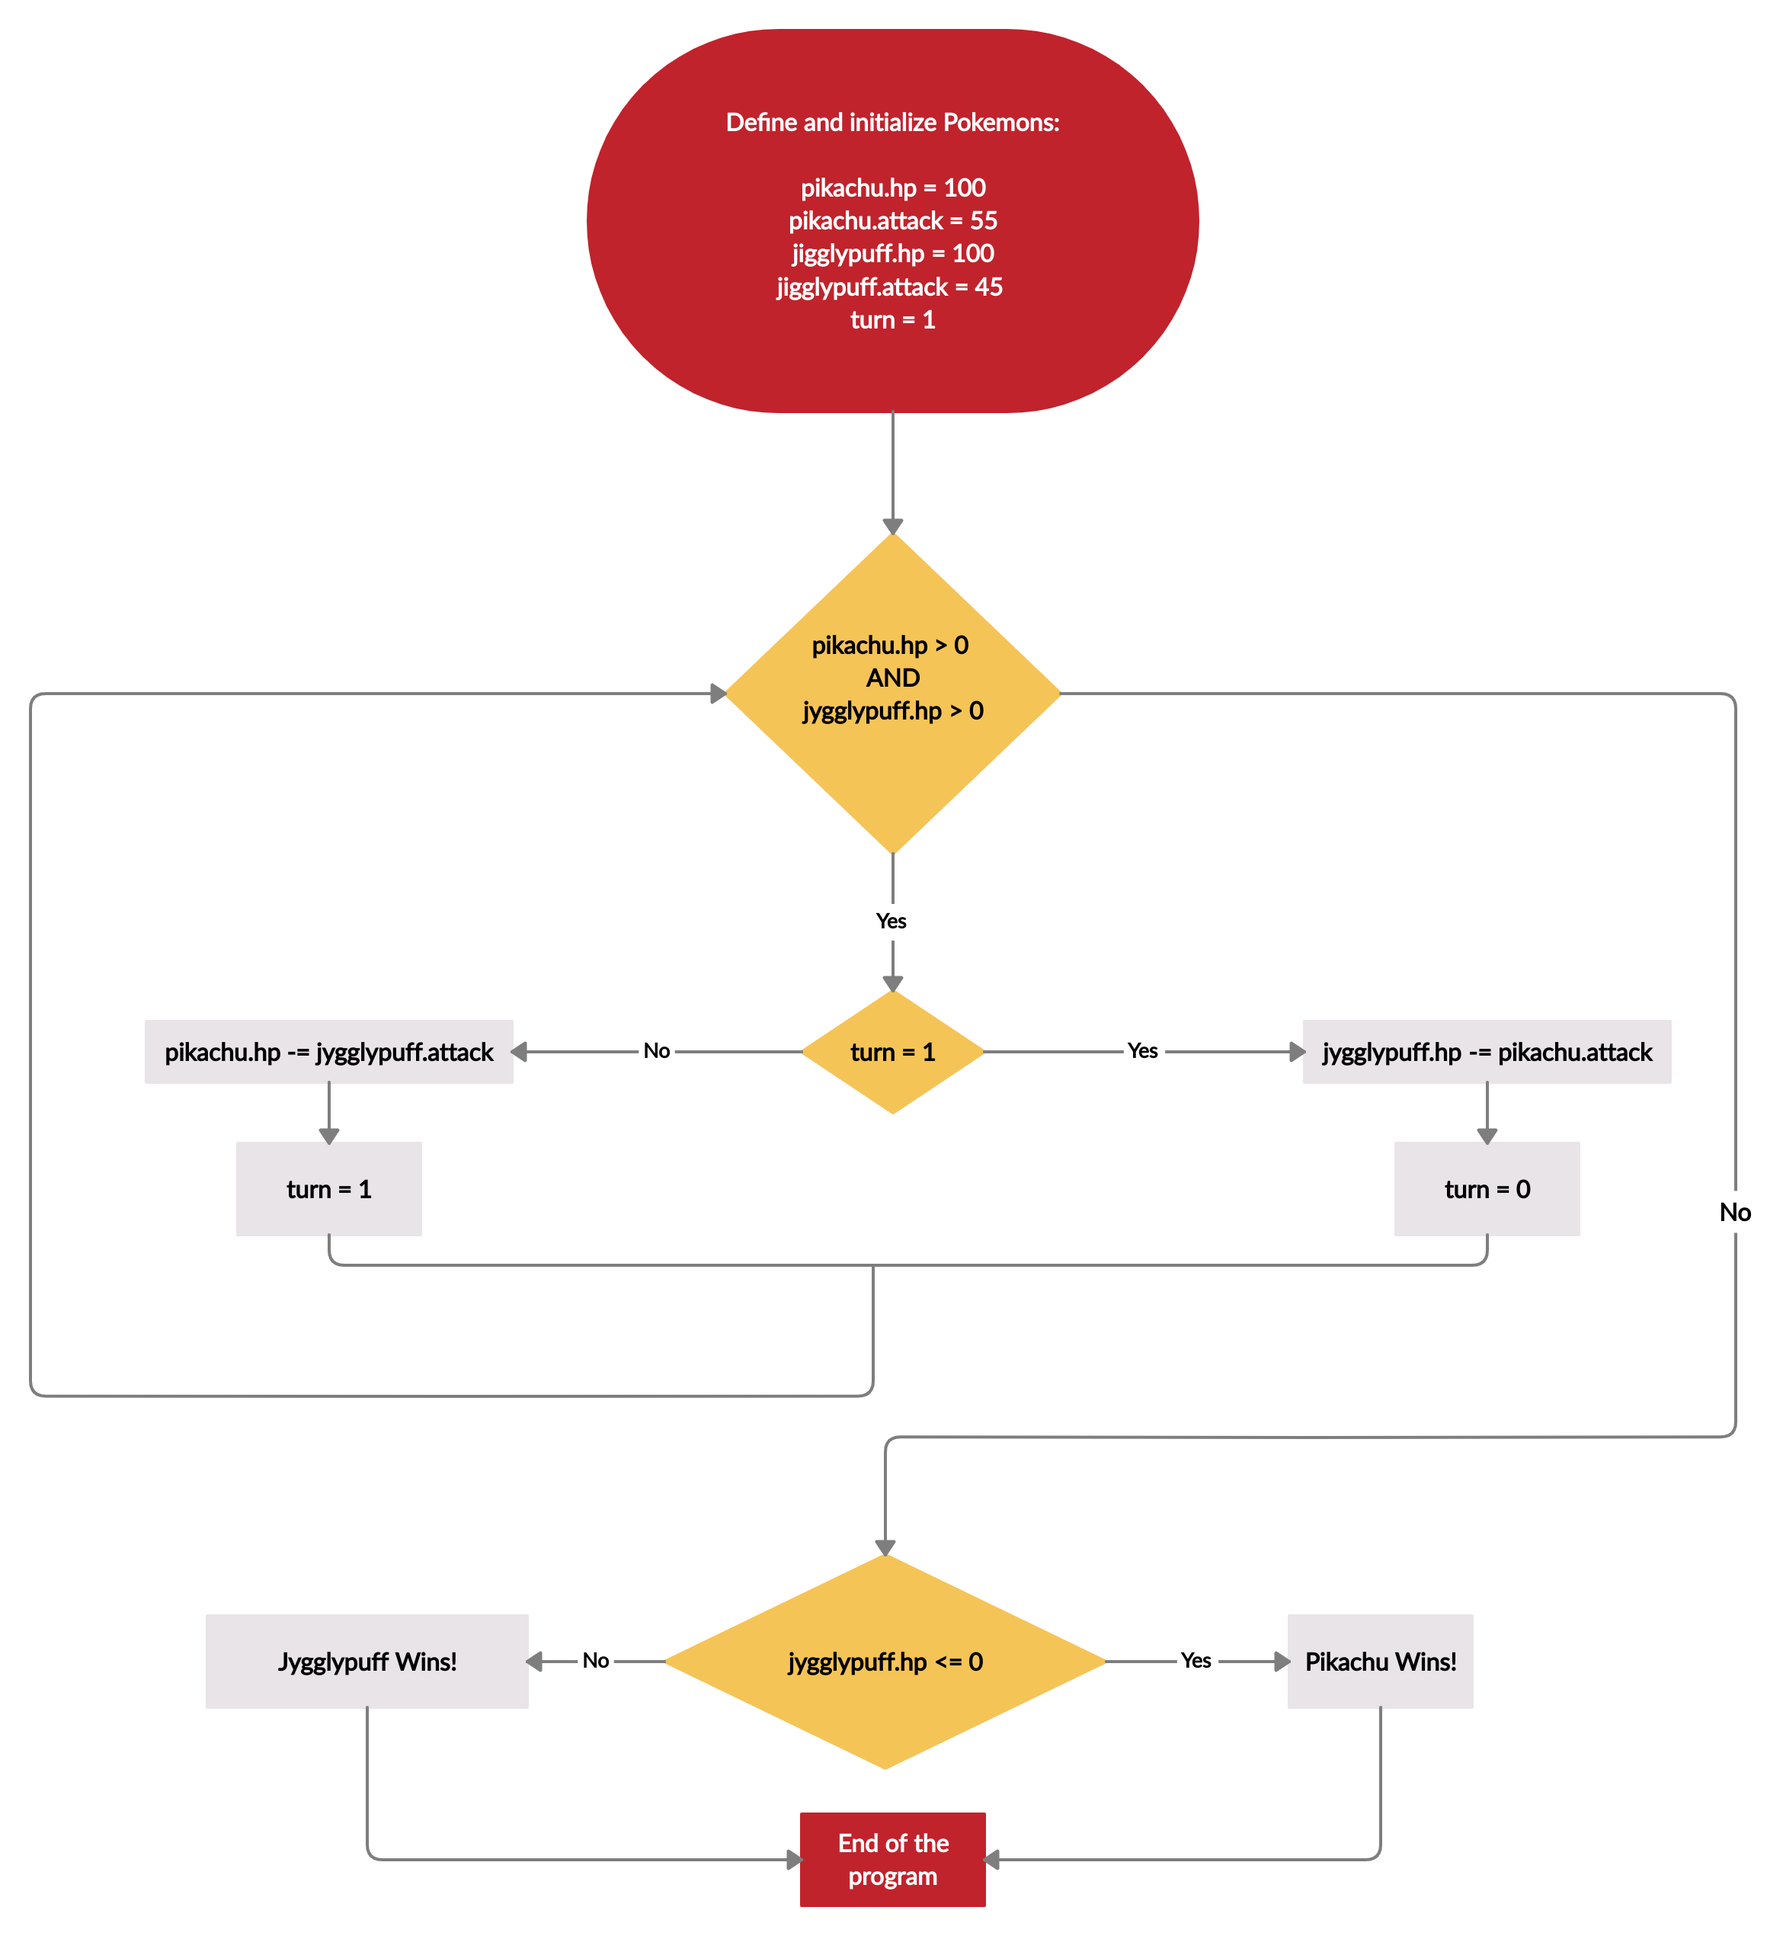
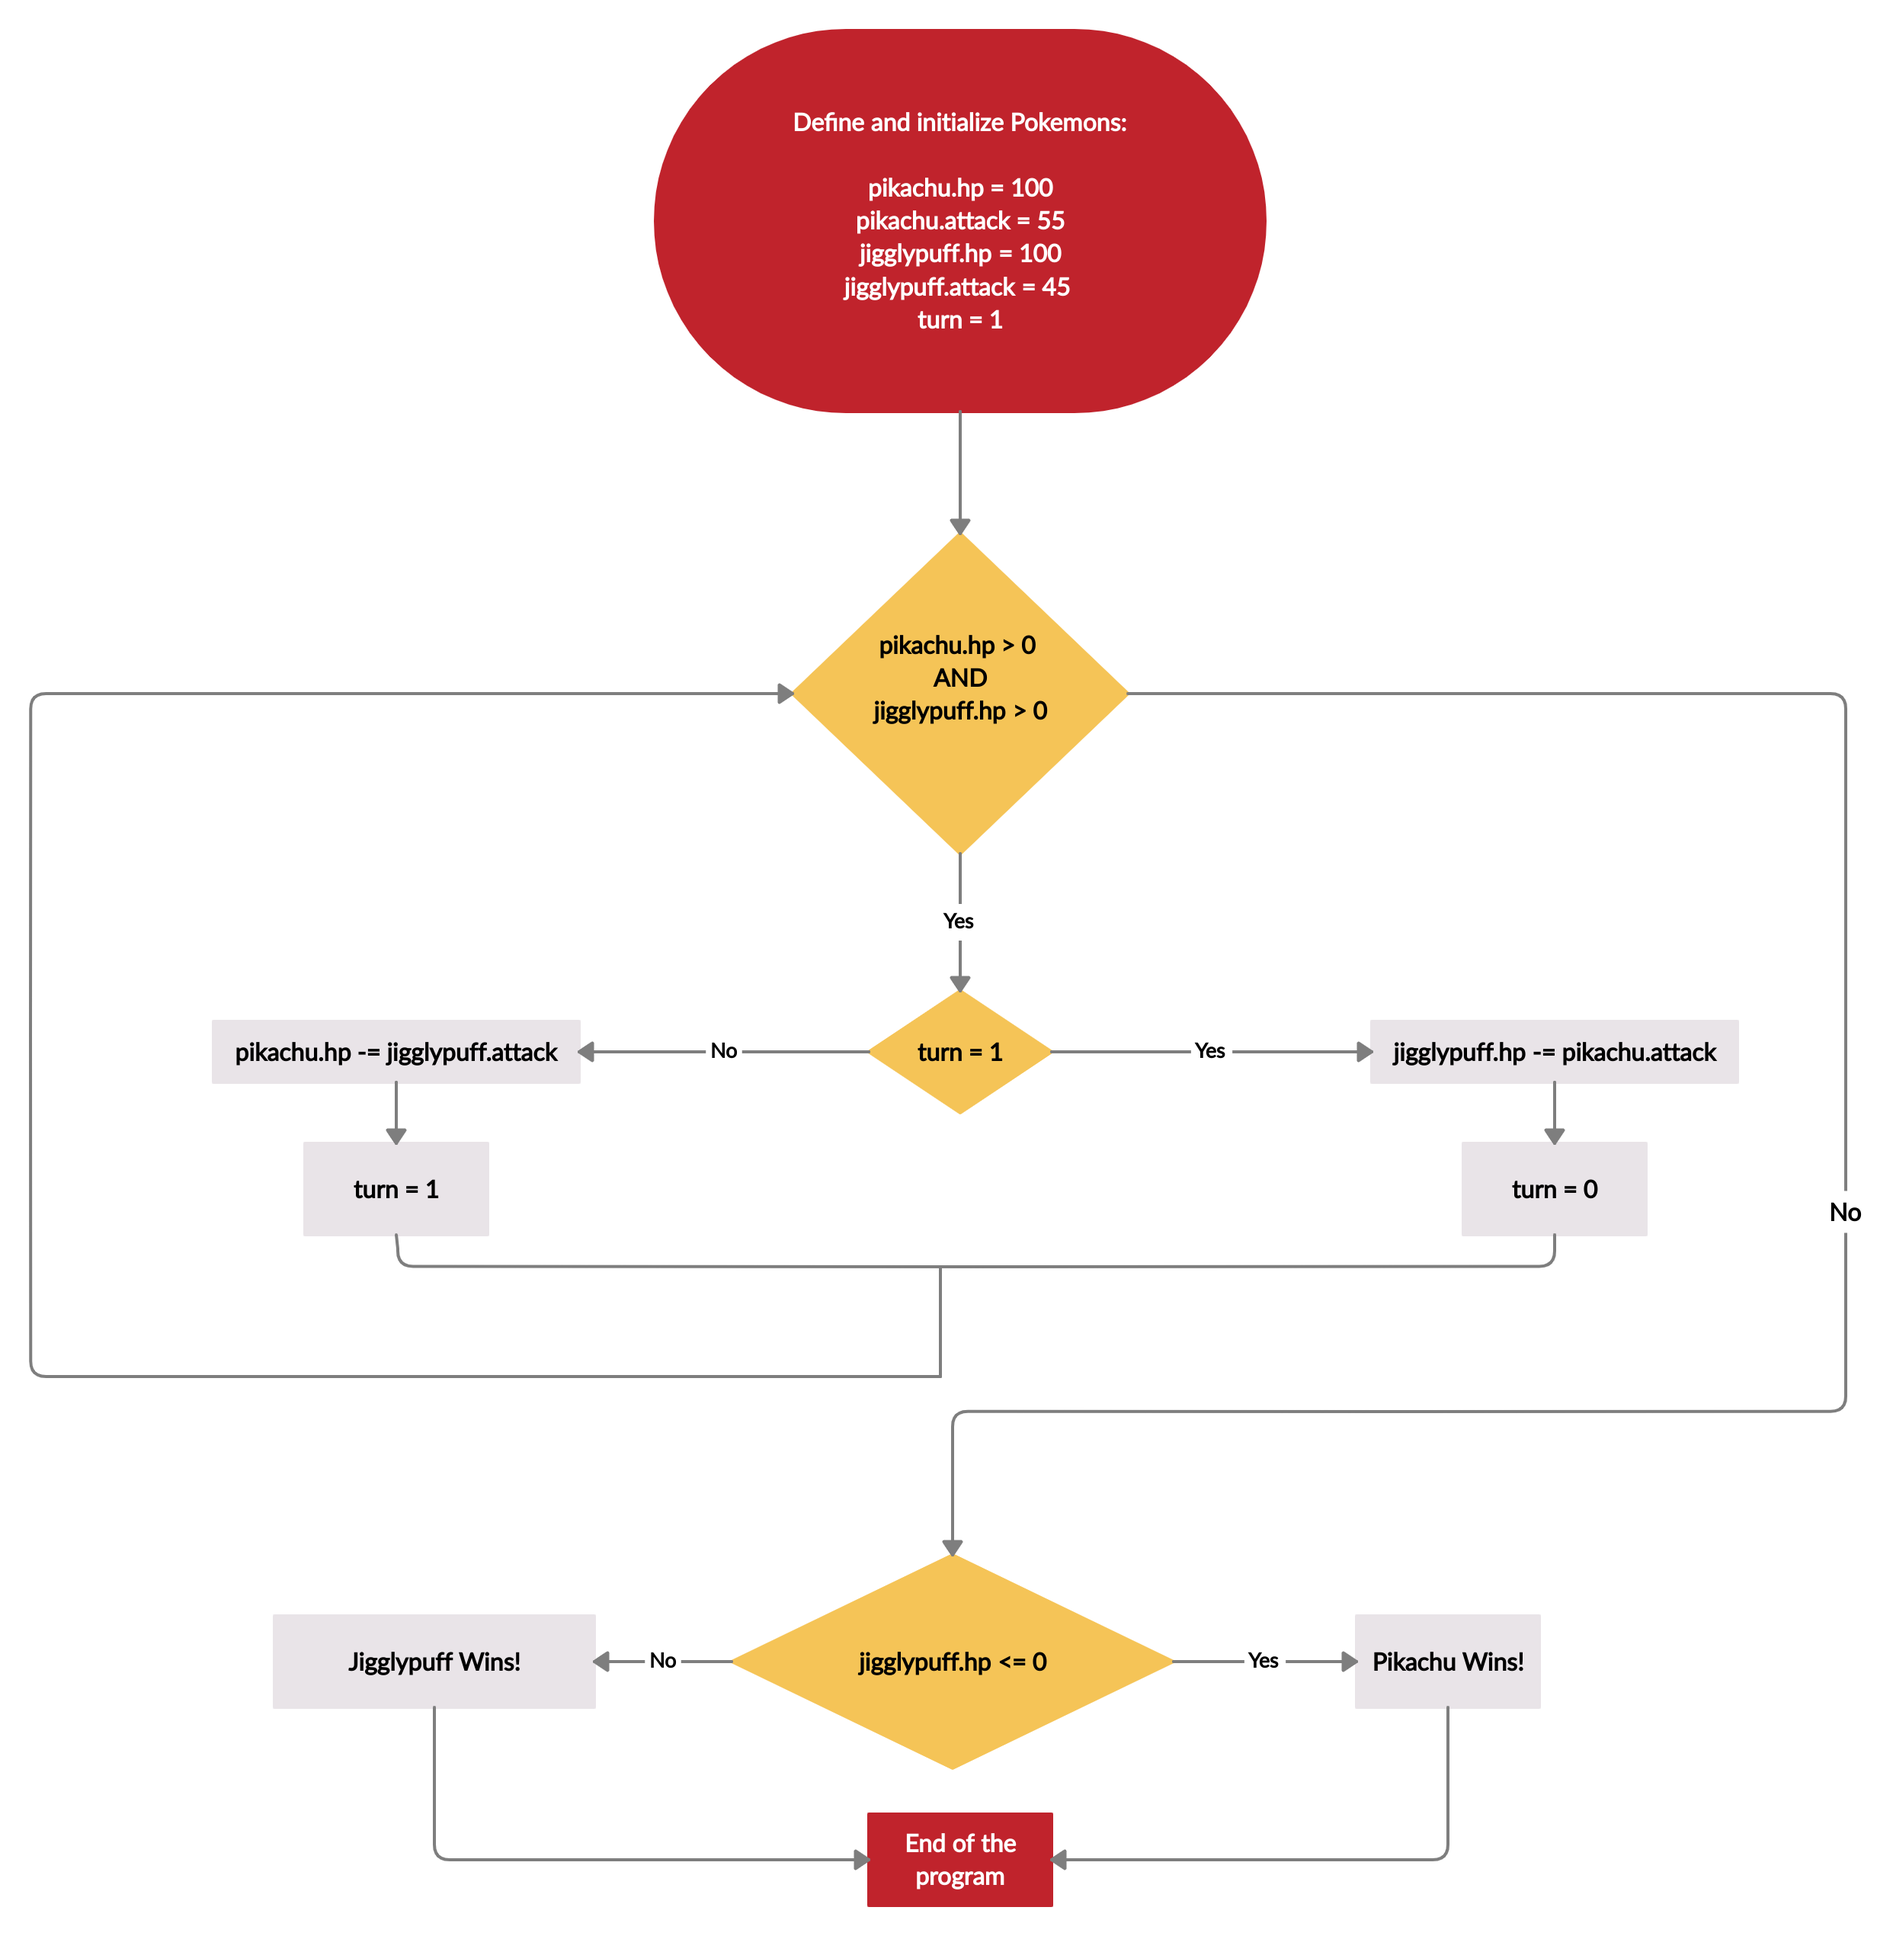
Update tarea_33

diff --git a/tarea_33/tarea_33.py b/tarea_33/tarea_33.py
@@ -5,21 +5,21 @@ class Pokemon():
 
 def main():
     pikachu = Pokemon(55, 100)
-    jygglypuff = Pokemon(45, 100)
+    jigglypuff = Pokemon(45, 100)
     turn = 1
 
-    while pikachu.hp > 0 and jygglypuff.hp > 0:
+    while pikachu.hp > 0 and jigglypuff.hp > 0:
         if turn == 1:
-            jygglypuff.hp -= pikachu.attack
+            jigglypuff.hp -= pikachu.attack
             turn = 0
         else:
-            pikachu.hp -= jygglypuff.attack
+            pikachu.hp -= jigglypuff.attack
             turn = 1
 
-    if jygglypuff.hp <= 0:
+    if jigglypuff.hp <= 0:
         print("Pikachu Wins!")
     else:
-        print("Jygglypuff Wins!")
+        print("Jigglypuff Wins!")
 
 if __name__ == "__main__":
     main()

diff --git a/tarea_33/README.md b/tarea_33/README.md
@@ -1,3 +1,40 @@
-# Tarea 33
+# Tarea 33: El juego de Pikachu
+
+En programación no suele ser una buena práctica empezar a programar la solución antes de pensar bien
+cuál va a ser la arquitectura del programa. Es importante hacer el plano del software antes de empezar a
+picar código.
+
+Si os fijáis bien, los programas que habéis desarrollado hasta ahora no son mas que un cúmulo de
+bucles que saltan de uno a otro para la resolución de un problema más complejo. Sabiendo esto, es
+importante dibujar esos bucles en "lápiz y papel" para ver clara la problemática y su posterior resolución.
+Estos dibujos se conocen como diagramas de flujo y se utilizan tanto para planificar el desarrollo de un
+software como para diseños en otras disciplinas que nada tienen que ver con la informática.
+En este caso, tenéis que entender y dibujar el diagrama de flujo del programa de picachu tal y como
+se explica en el vídeo que adjuntamos y posteriormente codificarlo mediante un lenguaje de
+programación, es decir, construir el programa tal cual se indica en el diagrama.
+
+Chulo, ¿verdad?
+
+# Soluciones propuestas
+
+| Programa              | Lenguaje | Observaciones                                      |
+|-----------------------|----------|----------------------------------------------------|
+| tarea_33.py           | Python   | Programa que pone a luchar a Pikachu y Jigglypuff. |
+
+# Ejecución de los programas
+
+## Programas en Python
+
+Requisitos para la correcta ejecución del programa:
+
+* Python 3.X.X
+
+### tarea_33.py
+```
+$ python tarea_33.py 
+Pikachu Wins!
+```
+
+# Diagrama de flujo
 
 ![](images/tarea_33.png)
